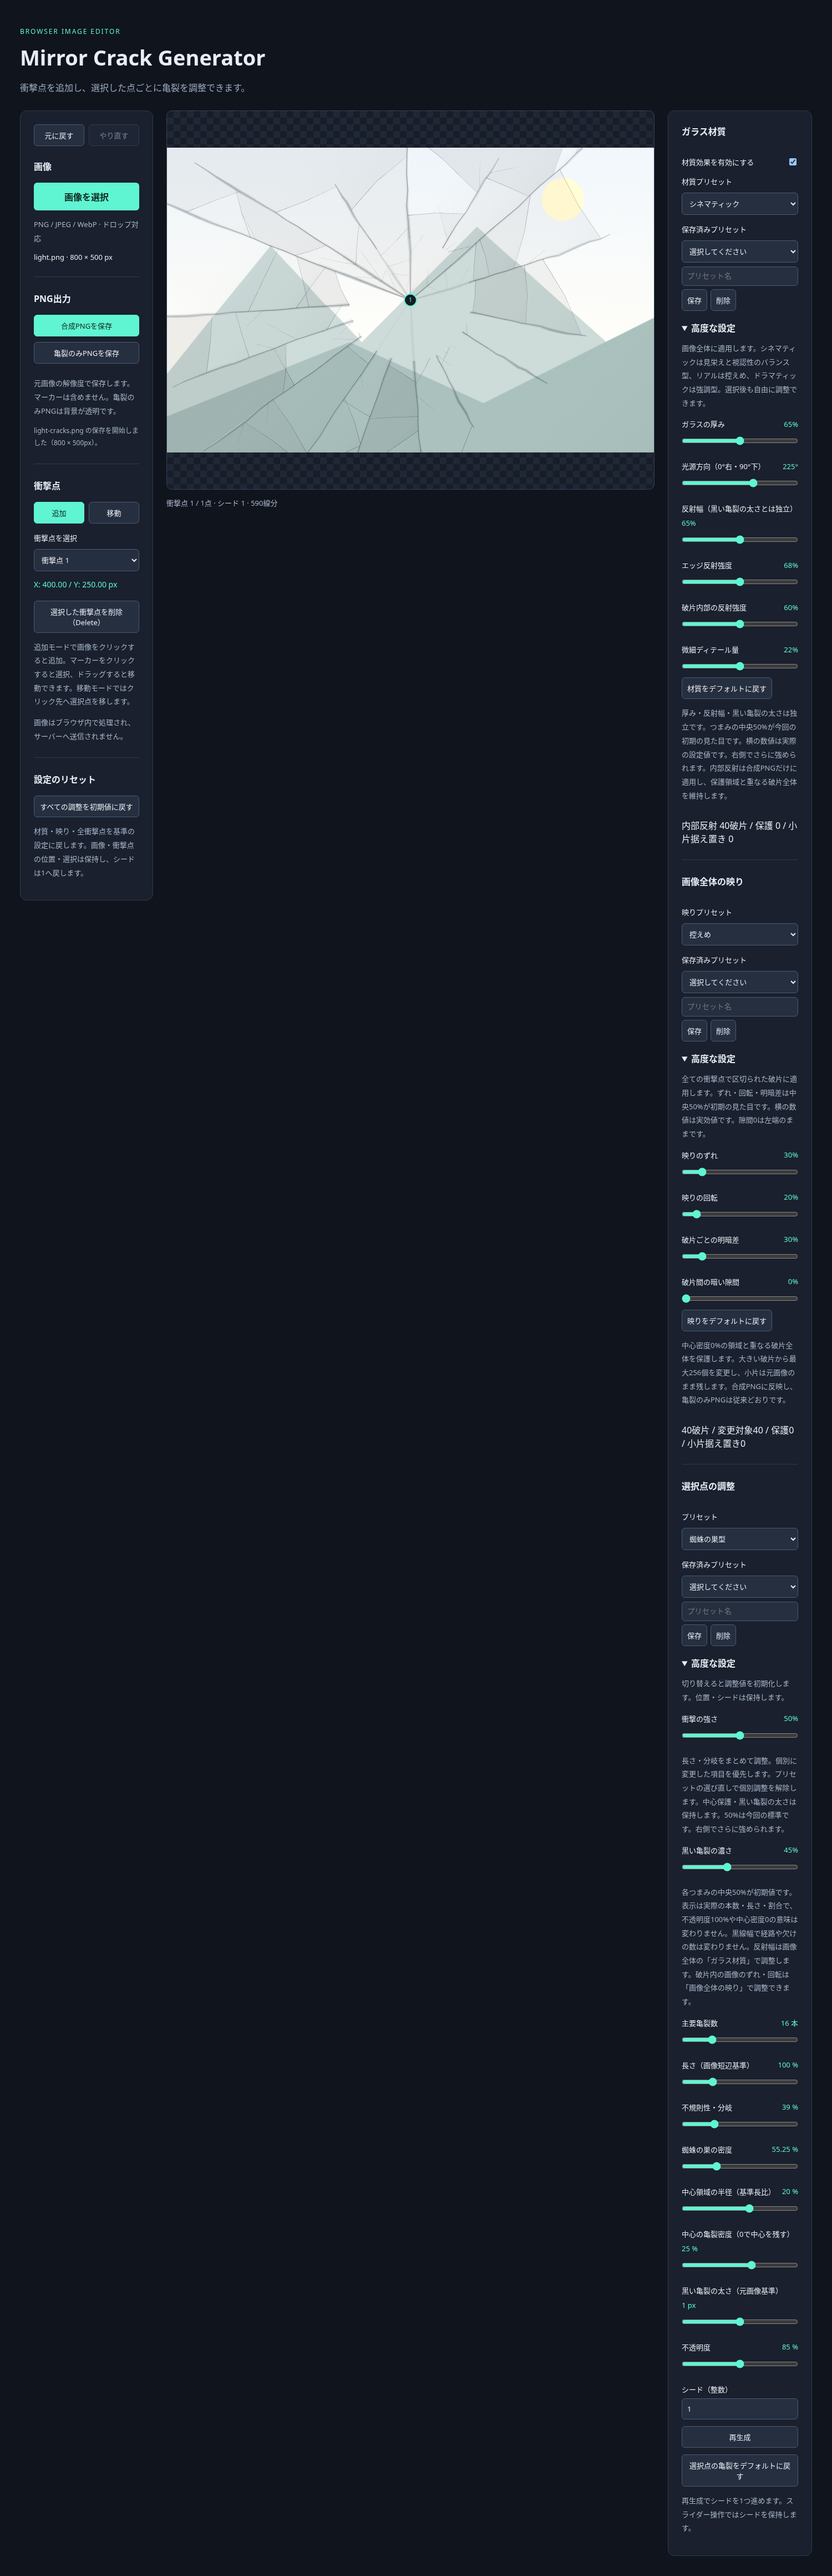
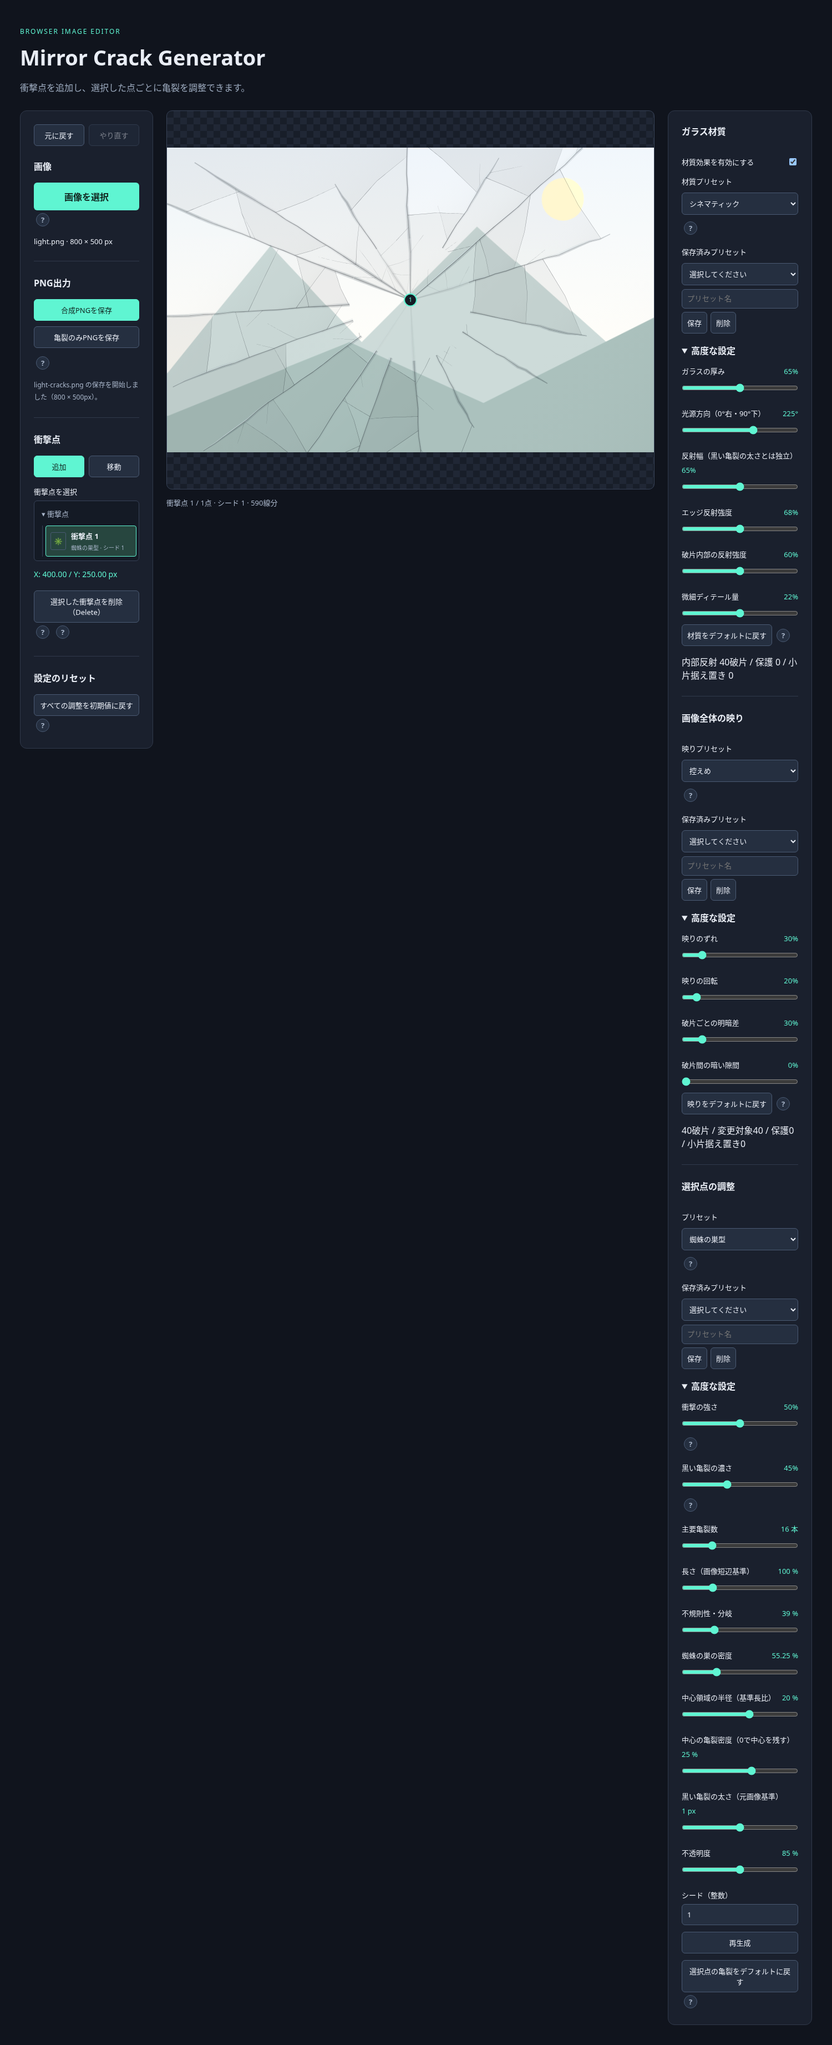
Compact explanations into tooltips and add hierarchical impact layers

Changed region(s): [[0.0307, 0.0, 0.7973, 0.3745], [0.7973, 0.0624, 0.9507, 0.9986]]

diff --git a/src/ui/editor.ts b/src/ui/editor.ts
@@ -1,3 +1,5 @@
+import { mountHelp } from './help';
+import { mountImpactLayers } from './impactLayers';
 import { EditorHistory } from '../state/editorHistory';
 import { PRESET_STORAGE_KEY, decodePresets, savePreset, type SavedPreset, type PresetGroup } from '../state/customPresets';
 import { MATERIAL_SCALES, SHARD_SCALES, POINT_SCALES, DARKNESS_SCALE, controlPosition, controlValue, type ControlScale } from '../state/controlScale';
@@ -64,7 +66,7 @@ export function mountEditor(root: HTMLElement): void {
         <button type="button" data-mode="add" aria-pressed="true" disabled>追加</button>
         <button type="button" data-mode="move" aria-pressed="false" disabled>移動</button>
       </div>
-      <label class="control">衝撃点を選択<select id="impact-list" disabled><option>衝撃点なし</option></select></label>
+      <p class="control" id="impact-list-label">衝撃点を選択</p><div id="impact-list" class="impact-layers" role="tree" aria-labelledby="impact-list-label"></div>
       <p class="coordinates" aria-live="polite">未指定</p>
       <button type="button" id="delete-impact" disabled>選択した衝撃点を削除（Delete）</button>
       <p class="hint">追加モードで画像をクリックすると追加。マーカーをクリックすると選択、ドラッグすると移動できます。移動モードではクリック先へ選択点を移します。</p>
@@ -80,16 +82,16 @@ export function mountEditor(root: HTMLElement): void {
       <fieldset id="material-settings" disabled><legend class="sr-only">画像全体のガラス材質</legend>
       <label class="control"><span>材質効果を有効にする</span><input id="material-enabled" type="checkbox"></label>
       <label class="control">材質プリセット<select id="material-preset">${Object.entries(GLASS_MATERIAL_PRESETS).map(([id,p])=>`<option value="${id}">${p.label}</option>`).join('')}<option value="custom" disabled>カスタム</option></select></label>
-      ${savedControls('material')}<details id="material-advanced"><summary>高度な設定</summary>
       <p class="hint">画像全体に適用します。シネマティックは見栄えと視認性のバランス型、リアルは控えめ、ドラマティックは強調型。選択後も自由に調整できます。</p>
+      ${savedControls('material')}<details id="material-advanced"><summary>高度な設定</summary>
       ${materialSliders.map(s=>`<label class="control" for="material-${s.key}">${s.label}<output id="material-${s.key}-value"></output></label><input id="material-${s.key}" type="range" min="0" max="${s.max}" step="0.1">`).join('')}
       <button type="button" id="material-reset">材質をデフォルトに戻す</button>
       <p class="hint">厚み・反射幅・黒い亀裂の太さは独立です。つまみの中央50%が今回の初期の見た目です。横の数値は実際の設定値です。右側でさらに強められます。内部反射は合成PNGだけに適用し、保護領域と重なる破片全体を維持します。</p>
       </details></fieldset><p id="material-status" role="status"></p><hr><h2>画像全体の映り</h2>
       <fieldset id="shard-settings" disabled><legend class="sr-only">鏡の破片の画像変形</legend>
       <label class="control">映りプリセット<select id="shard-preset"><option value="default">デフォルト</option><option value="subtle">控えめ</option><option value="none">変形なし</option><option value="custom" disabled>カスタム</option></select></label>
-      ${savedControls('shard')}<details id="shard-advanced"><summary>高度な設定</summary>
       <p class="hint">全ての衝撃点で区切られた破片に適用します。ずれ・回転・明暗差は中央50%が初期の見た目です。横の数値は実効値です。隙間0は左端のままです。</p>
+      ${savedControls('shard')}<details id="shard-advanced"><summary>高度な設定</summary>
 
       ${shardSliders.map(s=>`<label class="control" for="shard-${s.key}">${s.label}<output id="shard-${s.key}-value">0%</output></label><input id="shard-${s.key}" type="range" min="0" max="100" step="1" value="0">`).join('')}
       <button type="button" id="shard-reset">映りをデフォルトに戻す</button>
@@ -97,8 +99,8 @@ export function mountEditor(root: HTMLElement): void {
       </details></fieldset><p id="shard-status" role="status"></p><hr><h2>選択点の調整</h2>
       <fieldset id="settings" disabled><legend class="sr-only">亀裂設定</legend>
       <label class="control">プリセット<select id="preset"><option value="realistic">Realistic</option><option value="anime">Anime</option>${Object.entries(EFFECT_PRESETS).map(([id, p]) => `<option value="${id}">${p.label}</option>`).join('')}</select></label>
-      ${savedControls('point')}<details id="point-advanced"><summary>高度な設定</summary>
       <p class="hint">切り替えると調整値を初期化します。位置・シードは保持します。</p>
+      ${savedControls('point')}<details id="point-advanced"><summary>高度な設定</summary>
       <label class="control" for="impact-strength">衝撃の強さ<output id="impact-strength-value"></output></label>
       <input id="impact-strength" type="range" min="0" max="100" step="1" value="50">
       <p class="hint">長さ・分岐をまとめて調整。個別に変更した項目を優先します。プリセットの選び直しで個別調整を解除します。中心保護・黒い亀裂の太さは保持します。50%は今回の標準です。右側でさらに強められます。</p>
@@ -118,7 +120,9 @@ export function mountEditor(root: HTMLElement): void {
   const input = get<HTMLInputElement>('#image-file');
   const stage = get<HTMLDivElement>('.stage');
   const status = get<HTMLElement>('.status');
-  const list = get<HTMLSelectElement>('#impact-list');
+  const list = get<HTMLElement>('#impact-list');
+  const layers = mountImpactLayers(list,id=>edit(()=>state?.select(id)));
+  mountHelp(root);
   const settings = get<HTMLFieldSetElement>('#settings');
   const seed = get<HTMLInputElement>('#seed');
   const preset = get<HTMLSelectElement>('#preset');
@@ -181,12 +185,7 @@ export function mountEditor(root: HTMLElement): void {
     }
     const shard=state?.shards.settings;
     get<HTMLSelectElement>('#shard-preset').value=shard&&Object.keys(APPLICATION_SHARD_DEFAULTS).every(k=>shard[k as keyof typeof shard]===APPLICATION_SHARD_DEFAULTS[k as keyof typeof shard])?'default':shard&&Object.values(shard).every(v=>v===0)?'none':shard&&shard.displacement===30&&shard.rotation===20&&shard.reflection===30&&shard.gap===0?'subtle':'custom';
-    list.replaceChildren();
-    if (state?.impacts.length) {
-      for (const impact of state.impacts) list.add(new Option(`衝撃点 ${impact.id}`, String(impact.id)));
-      list.value = String(state.selectedId);
-    } else list.add(new Option('衝撃点なし', ''));
-    list.disabled = !active;
+    layers.render(state?.impacts??[],state?.selectedId??null);
     settings.disabled = !active;
     get<HTMLFieldSetElement>('#material-settings').disabled=!image;
     get<HTMLInputElement>('#material-enabled').checked=state?.glass.settings.enabled??false;
@@ -349,7 +348,6 @@ export function mountEditor(root: HTMLElement): void {
   for (const button of root.querySelectorAll<HTMLButtonElement>('[data-mode]')) {
     button.addEventListener('click', () => { mode = button.dataset.mode as Mode; refresh(); });
   }
-  list.addEventListener('change', () => edit(() => state?.select(Number(list.value))));
   get('#point-reset').addEventListener('click',()=>edit(()=>{if(state?.active)state.resetPoints(state.active.id);}));
   get('#reset-settings').addEventListener('click',()=>edit(()=>{if(state)resetApplicationSettings(state);}));
   get('#delete-impact').addEventListener('click',deleteSelectedImpact);

diff --git a/src/ui/impactLayers.ts b/src/ui/impactLayers.ts
@@ -1,0 +1,53 @@
+import { EFFECT_PRESETS, type Impact } from '../state/editorState';
+/** A single impact group with tree keyboard navigation; no change to render order. */
+export function mountImpactLayers(container:HTMLElement, select:(id:number)=>void){
+ let expanded=true;
+ const parent=document.createElement('div');parent.setAttribute('role','treeitem');parent.dataset.layerRoot='';parent.tabIndex=0;
+ const heading=document.createElement('span');heading.className='layer-heading';
+ const children=document.createElement('div');children.setAttribute('role','group');
+ parent.append(heading,children);container.append(parent);
+ function expand(value:boolean){expanded=value;parent.setAttribute('aria-expanded',String(value));children.hidden=!value;parent.tabIndex=!value||!children.querySelector('[aria-selected="true"]')?0:-1;heading.textContent=`${value?'▾':'▸'} 衝撃点`;}expand(true);
+ container.addEventListener('click',event=>{
+  const target=event.target;if(!(target instanceof Element))return;
+  const row=target.closest<HTMLElement>('[data-impact-id]');
+  if(row){select(Number(row.dataset.impactId));return;}
+  if(target===parent||target.closest('.layer-heading')){expand(!expanded);parent.focus();}
+ });
+ container.addEventListener('keydown',event=>{
+  const target=event.target;if(!(target instanceof HTMLElement))return;
+  if(!['ArrowUp','ArrowDown','ArrowLeft','ArrowRight','Home','End','Enter',' '].includes(event.key))return;
+  event.preventDefault();
+  const rows=Array.from(children.querySelectorAll<HTMLElement>('[data-impact-id]'));
+  const items=expanded?[parent,...rows]:[parent],index=items.indexOf(target);
+  if(event.key==='ArrowLeft'){if(target===parent)expand(false);else parent.focus();return;}
+  if(event.key==='ArrowRight'){if(target===parent){if(!expanded)expand(true);else rows[0]?.focus();}return;}
+  if(event.key==='Enter'||event.key===' '){if(target===parent)expand(!expanded);else target.click();return;}
+  const next=event.key==='Home'?0:event.key==='End'?items.length-1:Math.max(0,Math.min(items.length-1,index+(event.key==='ArrowUp'?-1:1)));
+  const item=items[next];if(!item)return;item.focus();if(item.dataset.impactId)select(Number(item.dataset.impactId));
+ });
+ return {
+  render(impacts:readonly Impact[],selected:number|null){
+   const focused=document.activeElement,hadFocus=focused instanceof HTMLElement&&container.contains(focused);
+   const focusedId=focused instanceof HTMLElement?focused.dataset.impactId:undefined;
+   const ids=new Set(impacts.map(i=>String(i.id)));
+   for(const row of children.querySelectorAll<HTMLElement>('[data-impact-id]'))if(!ids.has(row.dataset.impactId!))row.remove();
+   children.querySelector('.layer-empty')?.remove();
+   parent.setAttribute('aria-label',`衝撃点 ${impacts.length}点`);
+   parent.tabIndex=selected===null||!expanded?0:-1;
+   for(const [index,impact] of [...impacts].reverse().entries()){
+    let row=children.querySelector<HTMLButtonElement>(`[data-impact-id="${impact.id}"]`);
+    if(!row){row=document.createElement('button');row.append(document.createElement('span'),document.createElement('span'));}
+    row.type='button';row.className='impact-layer';row.dataset.impactId=String(impact.id);
+    row.setAttribute('role','treeitem');row.setAttribute('aria-selected',String(impact.id===selected));row.tabIndex=impact.id===selected?0:-1;
+    row.setAttribute('aria-label',`衝撃点 ${impact.id}`);
+    const icon=row.children[0] as HTMLSpanElement;icon.className='layer-icon';icon.setAttribute('aria-hidden','true');icon.textContent='✳';
+    const text=row.children[1] as HTMLSpanElement;
+    let name=text.querySelector('strong'),detail=text.querySelector('small');
+    if(!name||!detail){name=document.createElement('strong');detail=document.createElement('small');text.replaceChildren(name,detail);}
+    name.textContent=`衝撃点 ${impact.id}`;detail.textContent=`${impact.effectPreset?EFFECT_PRESETS[impact.effectPreset].label:impact.preset==='realistic'?'Realistic':'Anime'} · シード ${impact.seed}`;if(children.children[index]!==row)children.insertBefore(row,children.children[index]??null);
+   }
+   if(!impacts.length){const empty=document.createElement('p');empty.className='layer-empty';empty.textContent='衝撃点なし';children.append(empty);}
+   if(hadFocus){const row=focusedId?children.querySelector<HTMLElement>(`[data-impact-id="${focusedId}"]`):null;(row??(focusedId?children.querySelector<HTMLElement>('[aria-selected="true"]'):null)??parent).focus({preventScroll:true});}
+  }
+ };
+}

diff --git a/src/ui/help.ts b/src/ui/help.ts
@@ -1,0 +1,24 @@
+/** Compact explanations: hover, keyboard focus or tap, with one viewport-clamped tooltip. */
+export function mountHelp(root:HTMLElement):void {
+ const tooltip=document.createElement('div');tooltip.id='editor-help-tooltip';tooltip.className='help-tooltip';tooltip.setAttribute('role','tooltip');tooltip.hidden=true;root.append(tooltip);
+ let active:HTMLButtonElement|undefined,pinned=false,timer:ReturnType<typeof setTimeout>|undefined;
+ function hide(){clearTimeout(timer);active?.removeAttribute('aria-describedby');active?.setAttribute('aria-expanded','false');active=undefined;pinned=false;tooltip.hidden=true;}
+ function position(){
+  if(!active)return;const r=active.getBoundingClientRect();
+  tooltip.style.left=`${Math.max(8,Math.min(r.left,innerWidth-tooltip.offsetWidth-8))}px`;
+  const below=r.bottom+6;tooltip.style.top=`${Math.max(8,below+tooltip.offsetHeight<=innerHeight-8?below:r.top-tooltip.offsetHeight-6)}px`;
+ }
+ function show(button:HTMLButtonElement){clearTimeout(timer);if(active!==button){hide();active=button;tooltip.textContent=button.dataset.help??'';}tooltip.hidden=false;button.setAttribute('aria-describedby',tooltip.id);button.setAttribute('aria-expanded','true');position();}
+ function leave(){clearTimeout(timer);timer=setTimeout(()=>{if(!pinned&&document.activeElement!==active)hide();},120);}
+ for(const paragraph of root.querySelectorAll<HTMLElement>('p.hint:not([id])')){
+  const button=document.createElement('button');button.type='button';button.className='help-button';button.textContent='?';button.dataset.help=paragraph.textContent??'';button.setAttribute('aria-label',`説明：${(paragraph.textContent??'').slice(0,24)}`);button.setAttribute('aria-expanded','false');
+  paragraph.replaceWith(button);
+  button.addEventListener('mouseenter',()=>show(button));button.addEventListener('mouseleave',leave);
+  button.addEventListener('focus',()=>show(button));button.addEventListener('blur',hide);
+  button.addEventListener('click',event=>{event.preventDefault();if(active===button&&pinned)hide();else{show(button);pinned=true;}});
+ }
+ tooltip.addEventListener('mouseenter',()=>clearTimeout(timer));tooltip.addEventListener('mouseleave',leave);
+ document.addEventListener('pointerdown',event=>{if(event.target!==active&&!tooltip.contains(event.target as Node))hide();});
+ document.addEventListener('keydown',event=>{if(event.key==='Escape'&&active){event.preventDefault();hide();}});
+ window.addEventListener('resize',position);window.addEventListener('scroll',event=>{if(event.target instanceof Node&&tooltip.contains(event.target))return;if(active){const r=active.getBoundingClientRect();if(r.bottom<0||r.top>innerHeight)hide();else position();}},true);
+}

diff --git a/src/style.css b/src/style.css
@@ -28,3 +28,16 @@ canvas{touch-action:none}.sr-only{position:absolute;width:1px;height:1px;padding
 .preset-save{display:flex;flex-wrap:wrap;gap:6px}.preset-save input{min-width:0;width:100%;background:#252f40;color:#e9edf5;border:1px solid #4a5a73;border-radius:6px;padding:9px}.settings details{margin-top:18px}
 
 .history-tools{margin-bottom:24px}
+
+.help-button{display:inline-flex;align-items:center;justify-content:center;width:24px;height:24px;padding:0;margin:5px 4px;border-radius:50%;color:#a8b5c9;font-weight:700}
+.help-tooltip{position:fixed;z-index:1000;max-width:min(340px,calc(100vw - 16px));max-height:calc(100vh - 16px);overflow:auto;background:#252f40;border:1px solid #5a6e89;border-radius:8px;padding:12px 14px;color:#e9edf5;font-size:13px;line-height:1.8;box-shadow:0 6px 24px #0008;overflow-wrap:anywhere}
+.help-tooltip[hidden]{display:none}
+.impact-layers{border:1px solid #374257;border-radius:6px;background:#141a25;max-height:300px;overflow:auto;padding:4px}
+.layer-heading{display:block;cursor:pointer;font-size:13px;padding:9px;color:#a8b5c9}
+.impact-layers [role=treeitem]:focus-visible{outline:2px solid #5ff5d2;outline-offset:-2px}
+.impact-layers [role=group]{margin-left:10px;border-left:1px solid #374257;padding-left:5px}
+.impact-layers [role=group][hidden]{display:none}
+.impact-layer{display:flex;align-items:center;gap:9px;width:100%;text-align:left;border:1px solid transparent;border-radius:4px;background:transparent;margin:3px 0;padding:8px}
+.impact-layer[aria-selected=true]{background:#27463f;border-color:#5ff5d2}
+.layer-icon{display:grid;place-items:center;width:28px;height:32px;border:1px solid #4a5a73;border-radius:3px;color:#5ff5d2;flex-shrink:0}
+.impact-layer strong{display:block;font-size:13px;font-weight:600}.impact-layer small{display:block;font-size:10px;color:#a8b5c9;margin-top:4px;overflow-wrap:anywhere}.layer-empty{color:#a8b5c9;font-size:12px;padding:8px}

diff --git a/ARCHITECTURE.md b/ARCHITECTURE.md
@@ -215,3 +215,7 @@ UIは既存の編集キューをフラッシュしてから初期化し、プレ
 UIの共通編集処理は前後のスナップショットを記録し、失敗時は編集前へ戻す。待機中のスライダー入力は履歴移動・PNG出力前に確定する。範囲操作のchange/blurとドラッグ終了でグループを区切る。別画像の読み込み成功時に履歴を作り直し、読み込み失敗では維持する。画像、保存済みライブラリ、折りたたみ表示、編集モードは履歴に含めない。
 
 Deleteキーと削除ボタンは同じ履歴付き削除処理を呼ぶ。Deleteは入力欄・選択欄・編集中要素、修飾キー付き、IME変換中、リピート、読み込み/保存/ドラッグ中では点を削除しない。画像上の操作時はCanvasへフォーカスを移す。公開UIのデモ適用ボタンは撤去し、比較・検証ページは引き続き開発用に分離する。
+
+## 操作説明と衝撃点一覧
+`ui/help.ts`は静的説明（IDなしのhint）をヘルプボタンに置き換え、共通のツールチップを画面内に配置する。hover/focus/tap、Esc、外側クリックを扱い、操作結果・エラーなど動的通知は置き換えない。
+`ui/impactLayers.ts`は単一の衝撃点グループと点ごとのtreeitemを構築する。既存の選択APIを呼び、履歴や生成アルゴリズムは変更しない。行をIDで再利用し、入力確定による再描画がクリック対象やフォーカスを破壊しないようにする。新規点は上に表示するが生成・合成の順序は維持する。

diff --git a/docs/DEVELOPMENT.md b/docs/DEVELOPMENT.md
@@ -186,3 +186,5 @@ Playwrightでの検証は `node tests/reset-settings-ui.cjs`（必要ならNODE_
 Undo/Redoの状態テストは `src/state/editorHistory.test.ts`。ブラウザ確認は `node tests/undo-redo-ui.cjs`（PlaywrightのNODE_PATHが必要な環境では指定、`EDITOR_URL`でdev/previewを指定可）。ドラッグ/キャンセル、連続スライダー、履歴分岐、両PNGの完全一致、ショートカットと入力欄の除外、画像変更時の履歴初期化を確認する。
 
 `node tests/delete-key-ui.cjs`はDeleteによる選択点削除、Undo/Redo、入力欄・修飾キー・キーリピートの保護とデモボタンの撤去を確認する。`shard-composite-ui.cjs`はデモ操作の代わりに公開プリセット「控えめ」で映りを検証する。
+
+`node tests/layers-help-ui.cjs`で階層一覧・キー操作・マーカー連動・Delete/Undoと説明のhover/focus/tapを確認する。既存のリセット・Undo・Delete・合成テストもselect要素の代わりに一覧の行を操作する。
